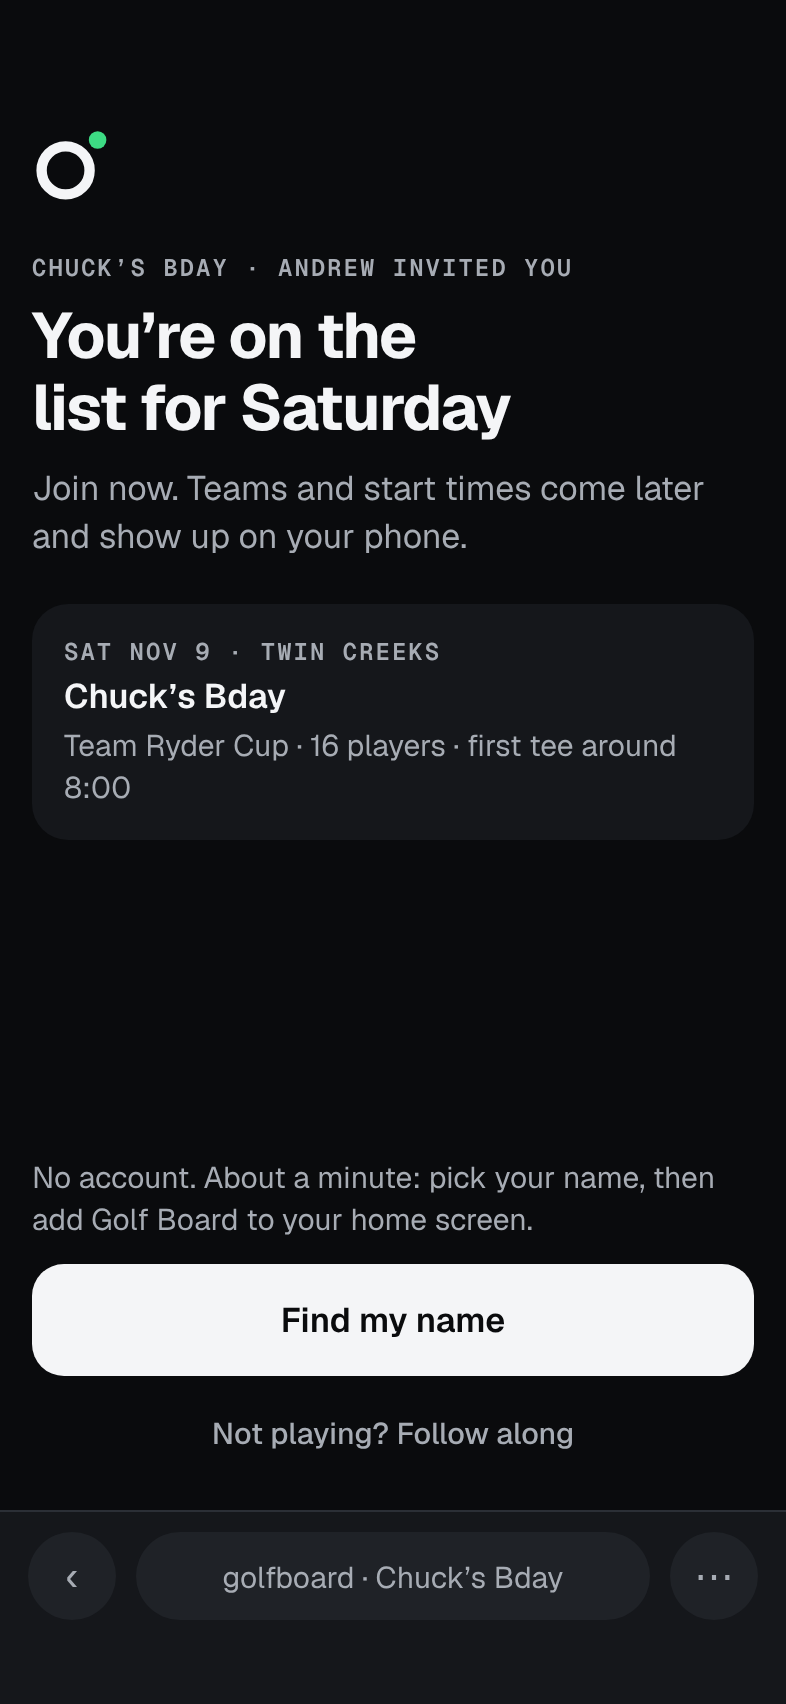
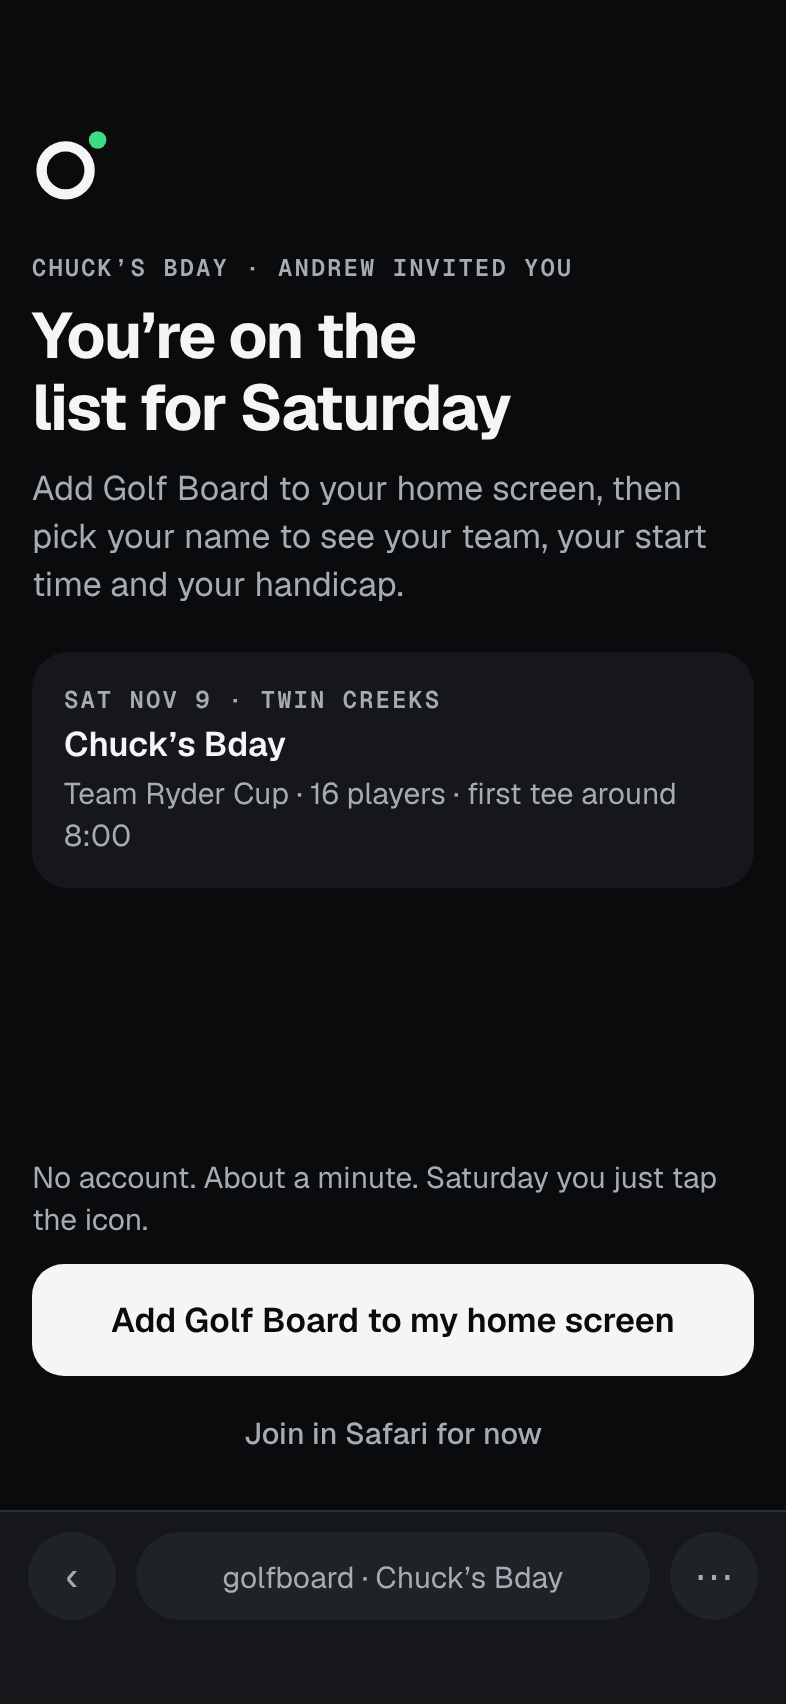
025: home screen first, then the name pick in the app; handicaps in the lobby (owner)
Claude-Session: https://claude.ai/code/session_01E1LafE2AXSwC6Gn1hLLUNX

diff --git a/docs/design/features/025-ryder-cup-lobby/mockups/lobby-screens.html b/docs/design/features/025-ryder-cup-lobby/mockups/lobby-screens.html
@@ -85,11 +85,12 @@ const lobbyCard = () => `<div class="card" style="display:flex;flex-direction:co
   <span class="lbl">Sat Nov 9 · Twin Creeks</span>
   <span style="font-size:17px;line-height:24px;font-weight:600">Chuck’s Bday</span>
   <span class="s m">Team Ryder Cup · 16 players · first tee around 8:00</span></div>`;
+const HCP = {"Andrew": 8, "Baker": 12, "Alex": 15, "Ant": 6, "Brandon": 10, "Chuck": 18, "Elijah": 14, "Jay": 9, "Josh": 4, "Joseph": 11, "Justin": 16, "Marcus": 13, "Mitch": 7, "Peter": 20, "Sean": 5, "Steve": 12};
 const PEOPLE = ['Alex', 'Andrew', 'Ant', 'Baker', 'Brandon', 'Chuck', 'Elijah', 'Jay', 'Josh', 'Joseph', 'Justin', 'Marcus', 'Mitch', 'Peter', 'Sean', 'Steve'];
 const roundLine = (extra = '') => `<p class="s m" style="margin-top:6px">Twin Creeks · Team Ryder Cup · 16 players${extra}</p>`;
 const stat = (t, sub, done) => `<div class="row tall"><div style="flex:1"><b style="display:block">${t}</b><span class="t">${sub}</span></div>${done ? '<span class="m" style="font-size:15px">✓</span>' : ''}</div>`;
 const how = `<button class="gho" style="text-align:left;width:auto;margin-top:2px">How Team Ryder Cup works ›</button>`;
-const players = (mark = {}) => `<div class="card" style="padding:0 16px">${['Andrew', 'Baker', 'Alex', 'Ant'].map((n) => `<div class="row"><b${n === 'Baker' ? ' class="you"' : ''}>${n}${n === 'Andrew' ? ' <span class="t" style="font-weight:500">organizer</span>' : ''}${n === 'Baker' ? ' <span class="t" style="font-weight:500">you</span>' : ''}</b></div>`).join('')}<div class="row"><b class="m" style="font-weight:500">12 more · 3 haven’t added Golf Board</b><span class="t">›</span></div></div>`;
+const players = (mark = {}) => `<div class="card" style="padding:0 16px">${['Andrew', 'Baker', 'Alex'].map((n) => `<div class="row"><b${n === 'Baker' ? ' class="you"' : ''}>${n}${n === 'Andrew' ? ' <span class="t" style="font-weight:500">organizer</span>' : ''}${n === 'Baker' ? ' <span class="t" style="font-weight:500">you</span>' : ''}</b><span class="t mono">${HCP[n]}</span></div>`).join('')}<div class="row"><b class="m" style="font-weight:500">13 more · 3 haven’t added Golf Board</b><span class="t">›</span></div></div>`;
 const phdr = (right = IC.dots) => `<div class="top"><span class="lbl">Chuck’s Bday</span><span class="m">${right}</span></div>`;
 const team = (name, carts, mine) => `<div class="card" style="padding:0 16px${mine ? ';box-shadow:inset 0 0 0 1.5px var(--cart-you)' : ''}"><div class="row"><b${mine ? ' class="you"' : ''}>${name}</b><span class="t">${mine ? 'your team' : ''}</span></div>${carts.map((c) => `<div class="row"><b style="font-weight:500${c.includes('Baker') ? ';color:var(--cart-you-text)' : ''}">${c}</b></div>`).join('')}</div>`;
 const field = (t) => `<div class="search" style="background:var(--surface-3)">${t}</div>`;
@@ -101,13 +102,14 @@ const V = {
   landing: () => `<div class="pg">${hdr()}
     <p class="lbl" style="margin:24px 0 8px">Chuck’s Bday · Andrew invited you</p>
     <h1 class="h1">You’re on the list for Saturday</h1>
-    <p class="p" style="margin-top:10px">Join now. Teams and start times come later and show up on your phone.</p>
+    <p class="p" style="margin-top:10px">Add Golf Board to your home screen, then pick your name to see your team, your start time and your handicap.</p>
     <div style="margin-top:22px">${lobbyCard()}</div>
     <div class="flex"></div>
-    <p class="s m" style="margin:0 0 12px">No account. About a minute: pick your name, then add Golf Board to your home screen.</p>
-    <button class="pri">Find my name</button>
-    <button class="gho" style="margin-top:4px;color:var(--text-muted);font-weight:500">Not playing? Follow along</button>
+    <p class="s m" style="margin:0 0 12px">No account. About a minute. Saturday you just tap the icon.</p>
+    <button class="pri">Add Golf Board to my home screen</button>
+    <button class="gho" style="margin-top:4px;color:var(--text-muted);font-weight:500">Join in Safari for now</button>
   </div>${safari(false)}`,
+  whoapp: () => V.who().replace(/<div class="safari">[\s\S]*$/, '').replace('Chuck’s Bday · step 1 of 3', 'Chuck’s Bday · in Golf Board'),
   who: () => `<div class="pg" style="padding-top:56px">
     <p class="lbl">Chuck’s Bday · step 1 of 3</p>
     <h1 class="h1" style="margin-top:6px">Which one are you?</h1>
@@ -128,9 +130,10 @@ const V = {
     <h1 class="h1" style="margin-top:12px">Saturday · 8:00 at Twin Creeks</h1>
     <p class="s m" style="margin-top:6px">Team Ryder Cup · 16 players</p>
     ${how}
-    <p class="lbl" style="margin:16px 0 6px">Coming up</p>
+    <div class="card" style="margin-top:12px;padding:0 16px"><div class="row tall"><div style="flex:1"><b style="display:block">Your handicap · <span class="mono">12</span></b><span class="t">Andrew sets these. Think it’s off?</span></div><button class="pill sm">Text Andrew</button></div></div>
+    <p class="lbl" style="margin:14px 0 6px">Coming up</p>
     <div class="card" style="padding:0 16px">${stat('Teams', 'After Andrew’s draft')}${stat('Your start time and matches', 'After the draft')}</div>
-    <p class="lbl" style="margin:20px 0 6px">Who’s playing</p>
+    <p class="lbl" style="margin:20px 0 6px">Who’s playing · handicap</p>
     ${players()}
     <div class="flex"></div>
   </div>`,
@@ -174,7 +177,7 @@ const V = {
     <h1 class="h1" style="margin-top:12px">Saturday · 9:10 at Twin Creeks</h1>
     <p class="s m" style="margin-top:6px">Team Ryder Cup · 16 players</p>
     <div class="card" style="margin-top:14px;display:flex;align-items:center;gap:10px;padding:12px 16px"><span class="warn-dot"></span><span class="s">Andrew moved the start to 9:10 (was 8:00).</span></div>
-    <p class="lbl" style="margin:16px 0 6px">Coming up</p>
+    <p class="lbl" style="margin:14px 0 6px">Coming up</p>
     <div class="card" style="padding:0 16px">${stat('Teams', 'After Andrew’s draft')}${stat('Your start time and matches', 'After the draft')}</div>
     <div class="flex"></div>
   </div>`,
@@ -211,7 +214,7 @@ const V = {
     <button class="pri">Go to hole 1</button>
     <button class="gho" style="margin-top:4px">How today’s game works</button>
   </div>`,
-  cohost: () => V.early().replace('<span class="lbl">Chuck’s Bday</span>', '<span class="lbl">Chuck’s Bday · you’re co-host</span>').replace('${how}', '') .replace('<p class="lbl" style="margin:16px 0 6px">Coming up</p>', '<div class="card" style="margin-top:14px;padding:0 16px"><div class="row"><b>Host</b><span class="t">draft, start times, players ›</span></div></div><p class="lbl" style="margin:16px 0 6px">Coming up</p>'),
+  cohost: () => V.early().replace('<span class="lbl">Chuck’s Bday</span>', '<span class="lbl">Chuck’s Bday · you’re co-host</span>').replace('${how}', '') .replace('<p class="lbl" style="margin:14px 0 6px">Coming up</p>', '<div class="card" style="margin-top:14px;padding:0 16px"><div class="row"><b>Host</b><span class="t">draft, start times, players ›</span></div></div><p class="lbl" style="margin:14px 0 6px">Coming up</p>'),
   // ── organizer ──
   setupchoice: () => `<div class="pg" style="padding-top:56px">
     <p class="lbl">New round · Chuck’s Bday</p>

diff --git a/docs/design/features/025-ryder-cup-lobby/SPEC.md b/docs/design/features/025-ryder-cup-lobby/SPEC.md
@@ -20,10 +20,10 @@ Mockups are reference only. Rebuild them with the app's components and tokens: n
 
 | # | key | screen | # | key | screen |
 |---|---|---|---|---|---|
-| 1 | landing | Lobby landing (Safari) | 15 | setupchoice | Setup: Invite now? |
-| 2 | who | Which one are you? (A–Z) | 16 | hostearly | Host · before the draft |
+| 1 | landing | Lobby landing (Safari): **Add to home screen first** | 15 | setupchoice | Setup: Invite now? |
+| 2 / 2b | who / whoapp | Which one are you? (A–Z): Safari fallback / **in the app** | 16 | hostearly | Host · before the draft |
 | 3 | welcome | See you Saturday (first open) | 17 | hostreplace | Replace a player |
-| 4 | early | Lobby · before the draft | 18 | replaceshare | Send the sub the link |
+| 4 | early | Lobby · before the draft (with **your handicap**) | 18 | replaceshare | Send the sub the link |
 | 5 | drafted | Lobby · teams are set | 19 | hostdrafted | Host · teams set |
 | 6 | teetimes | Lobby · start times set | 20 | hostoptions | Round options |
 | 7 | satwait | Saturday · start times coming | 21 | calloff | Call it off? |
@@ -115,11 +115,21 @@ Round options → **Co-host** → pick a player (**cohost** = playerId) → the 
 
 ## 6 · Players
 
-- **Join (1 → 2 → 024 confirm → guide → 3):** a lobby round's landing (**1**) replaces the join intro: “You're on the list for Saturday”, the round card (date, course, game, players, “first start around 8:00”) and **Find my name**. The quiet “Not playing? Follow along” opens today's watching view.
-  - Name list (**2**): A–Z with search (no tee-time groups exist yet); a claimed name shows “on another phone”.
-  - Then 024's “You're Baker?” confirm, and the existing Add to Home Screen path on Home (move link).
+- **Join, home screen first (owner, Nov 6). The path is 1 → Add to Home Screen → the app → 2b → 024 confirm → 3.** See `screenshots/this-weekend-flow.png`.
+  - **The landing (1)** replaces the join intro for a lobby round: “You're on the list for Saturday”, “Add Golf Board to your home screen, then pick your name to see your team, your start time and your handicap”, the round card, and “No account. About a minute. Saturday you just tap the icon.” The primary is **Add Golf Board to my home screen**. It opens the existing Add to Home Screen sheet/guide (Home's, `db.moveLink()`), with **the round code in the move link** (024 supports this), so the home screen app opens straight into this round.
+  - **The quiet secondary, “Join in Safari for now”,** keeps today's in-Safari join (2 → confirm → lobby in Safari). Home keeps offering Add to Home Screen.
+  - **In the app, first open:**
+    - A phone whose owner is on the roster is joined automatically (024 `joinPlan` 'auto'). The owner moves along with the move link.
+    - Anyone else gets **2b**: A–Z with search, no Safari bar, and “on another phone” for a claimed name.
+    - Then 024's “You're Baker?” confirm.
   - **No cart-name picker** in a lobby.
-  - First open (**3**): “See you Saturday, Baker” → **See who's playing**; an optional **Show me an example round** (**12**, three static pages, made-up names, nothing saved). The example round is a stretch goal; leave the link out if it isn't built.
+  - Then **3**: “See you Saturday, Baker” → **See who's playing**; optional **Show me an example round** (**12**, three static pages, made-up names, nothing saved). The example round is a stretch goal; leave the link out if it isn't built.
+  - The quiet “Not playing? Follow along” (spectators) can stay as a text link under the secondary, or move to the lobby's ⋯. Your call; keep one primary.
+  - **Handicaps (owner, Nov 6):**
+    - The lobby (4) shows **Your handicap · 12**, from the roster player's `strokes`, with “Andrew sets these. Think it's off?” and a **Text Andrew** pill (share sheet: “Andrew, my handicap in Chuck's Bday says 12…”).
+    - **Who's playing** shows each player's handicap on the right (mono).
+    - Changes go through Host's existing strokes field, and players see the new number on their next open. No database change.
+  - **Host's share message** (Setup → Invite now and Host's Share): “You're on the list for Chuck's Bday on Saturday. Tap this, add Golf Board to your home screen, and check your handicap.”
 - **Lobby screen (4–8, 14):** when and where as the headline. Its content depends on the stage:
   - **Before the draft (4):** “Coming up · Teams · Your start time and matches”, then **Who's playing** (the first four names, then “12 more · 3 haven't added Golf Board ›” → the full list).
   - **Teams set (5):** your team; only **your cart** in green; the other team collapsed to one row.
